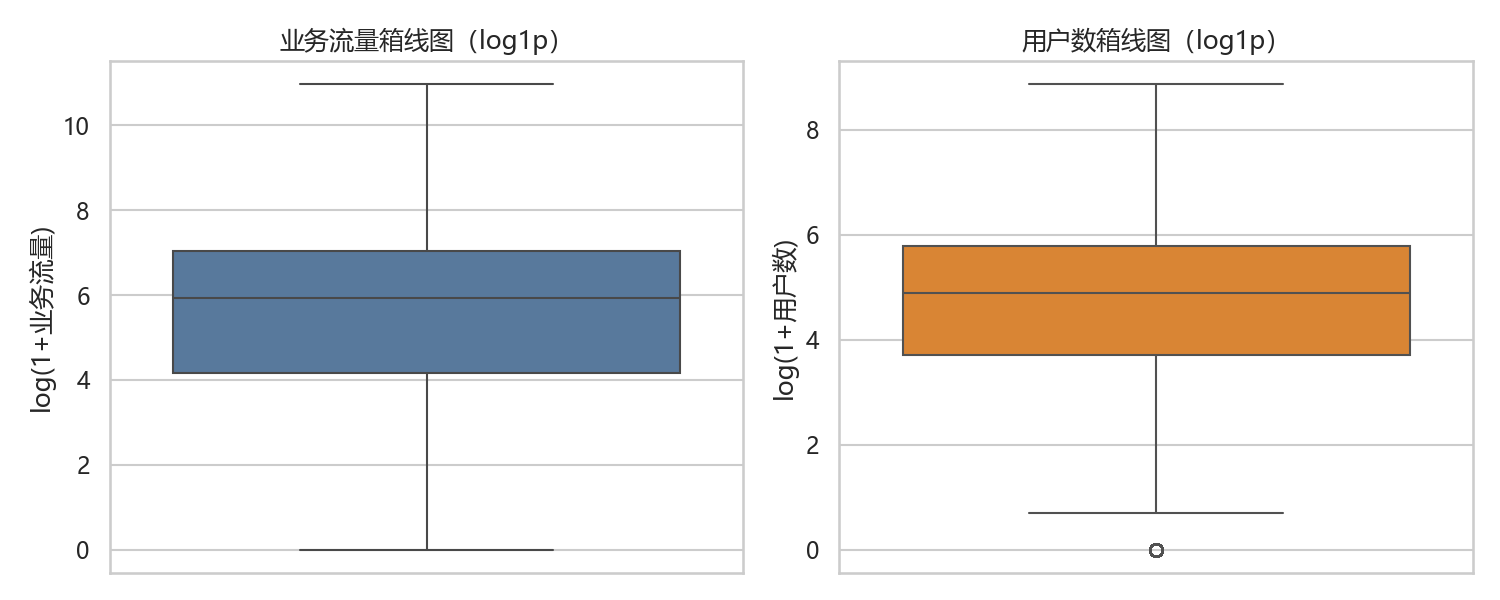
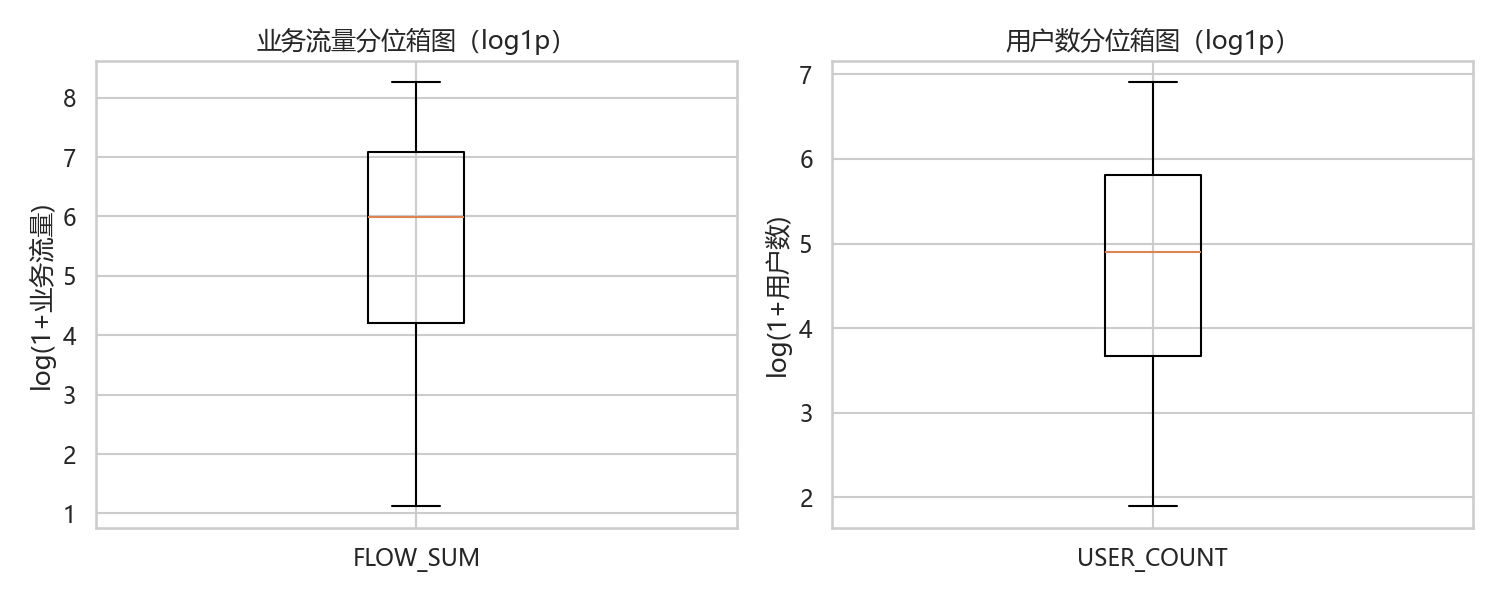
feat(section3, section5, section7): 全量数据重构

Changed region(s): [[0.0, 0.09, 1.0, 0.96], [0.6747, 0.03, 0.8587, 0.09], [0.1533, 0.03, 0.368, 0.09]]

diff --git a/section3_descriptive.py b/section3_descriptive.py
@@ -14,8 +14,13 @@ import seaborn as sns
 DATA_PATH = Path("all_final_data_with_attributes.csv")
 OUT_DIR = Path("report_assets/section3")
 CHUNK_SIZE = 1_000_000
-MAX_SAMPLE = 120_000
-MAX_GEO_SAMPLE = 50_000
+HIST_BINS = 60
+SCATTER_BINS = 80
+FLOW_LOG_MAX = 14.0
+USER_LOG_MAX = 10.0
+FPU_LOG_MAX = 9.0
+PAR_LOG_MAX = 5.5
+ACTIVITY_MAX = 0.6
 
 COL_DATE = "\u65e5\u671f"
 COL_HOUR = "\u5c0f\u65f6"
@@ -128,21 +133,23 @@ def combine_cell_agg(
     return base
 
 
-def append_sample(
-    sample_df: pd.DataFrame | None,
-    new_sample: pd.DataFrame,
-    max_size: int,
-    seed: int,
-) -> pd.DataFrame:
-    if new_sample.empty:
-        return sample_df if sample_df is not None else pd.DataFrame()
-    if sample_df is None:
-        sample_df = new_sample.copy()
-    else:
-        sample_df = pd.concat([sample_df, new_sample], ignore_index=True)
-    if len(sample_df) > max_size:
-        sample_df = sample_df.sample(max_size, random_state=seed)
-    return sample_df
+def hist_quantile(edges: np.ndarray, counts: np.ndarray, q: float) -> float:
+    total = counts.sum()
+    if total == 0:
+        return np.nan
+    target = q * total
+    cumulative = np.cumsum(counts)
+    idx = int(np.searchsorted(cumulative, target))
+    if idx <= 0:
+        return float(edges[0])
+    if idx >= len(counts):
+        return float(edges[-1])
+    prev = cumulative[idx - 1]
+    count = counts[idx]
+    if count == 0:
+        return float(edges[idx])
+    frac = (target - prev) / count
+    return float(edges[idx] + frac * (edges[idx + 1] - edges[idx]))
 
 
 def weekday_labels(values: list[int]) -> list[str]:
@@ -207,8 +214,21 @@ def main() -> None:
     type_agg: pd.DataFrame | None = None
     cell_agg: pd.DataFrame | None = None
     cell_attrs: pd.DataFrame | None = None
-    sample_df: pd.DataFrame | None = None
-    geo_sample_df: pd.DataFrame | None = None
+
+    flow_bins = np.linspace(0, FLOW_LOG_MAX, HIST_BINS + 1)
+    user_bins = np.linspace(0, USER_LOG_MAX, HIST_BINS + 1)
+    fpu_bins = np.linspace(0, FPU_LOG_MAX, HIST_BINS + 1)
+    par_bins = np.linspace(0, PAR_LOG_MAX, HIST_BINS + 1)
+    activity_bins = np.linspace(0, ACTIVITY_MAX, HIST_BINS + 1)
+    scatter_x_bins = np.linspace(0, USER_LOG_MAX, SCATTER_BINS + 1)
+    scatter_y_bins = np.linspace(0, FLOW_LOG_MAX, SCATTER_BINS + 1)
+
+    flow_hist = np.zeros(HIST_BINS, dtype=np.int64)
+    user_hist = np.zeros(HIST_BINS, dtype=np.int64)
+    fpu_hist = np.zeros(HIST_BINS, dtype=np.int64)
+    par_hist = np.zeros(HIST_BINS, dtype=np.int64)
+    activity_hist = np.zeros(HIST_BINS, dtype=np.int64)
+    scatter_counts = np.zeros((SCATTER_BINS, SCATTER_BINS), dtype=np.int64)
 
     for idx, chunk in enumerate(
         pd.read_csv(
@@ -241,17 +261,28 @@ def main() -> None:
         update_stats(chunk["PAR"], par_stats)
         update_stats(chunk["ActivityScore"], activity_stats)
 
-        sample_cols = ["FLOW_SUM", "USER_COUNT", "flow_per_user", "PAR", "ActivityScore"]
-        sample = chunk[sample_cols].dropna(how="all")
-        if not sample.empty:
-            sample = sample.sample(n=min(5000, len(sample)), random_state=42 + idx)
-            sample_df = append_sample(sample_df, sample, MAX_SAMPLE, seed=100 + idx)
+        flow_log = np.log1p(chunk["FLOW_SUM"].to_numpy())
+        user_log = np.log1p(chunk["USER_COUNT"].to_numpy())
+        fpu_log = np.log1p(chunk["flow_per_user"].to_numpy())
+        par_log = np.log1p(chunk["PAR"].to_numpy())
+        activity_vals = chunk["ActivityScore"].to_numpy()
 
-        geo_cols = ["LONGITUDE", "LATITUDE", "FLOW_SUM", "SCENE", "flow_per_user"]
-        geo = chunk[geo_cols].dropna(how="any")
-        if not geo.empty:
-            geo = geo.sample(n=min(3000, len(geo)), random_state=7 + idx)
-            geo_sample_df = append_sample(geo_sample_df, geo, MAX_GEO_SAMPLE, seed=200 + idx)
+        flow_hist += np.histogram(flow_log[np.isfinite(flow_log)], bins=flow_bins)[0]
+        user_hist += np.histogram(user_log[np.isfinite(user_log)], bins=user_bins)[0]
+        fpu_hist += np.histogram(fpu_log[np.isfinite(fpu_log)], bins=fpu_bins)[0]
+        par_hist += np.histogram(par_log[np.isfinite(par_log)], bins=par_bins)[0]
+        activity_hist += np.histogram(
+            activity_vals[np.isfinite(activity_vals)], bins=activity_bins
+        )[0]
+
+        valid_mask = np.isfinite(flow_log) & np.isfinite(user_log)
+        if valid_mask.any():
+            hist2d, _, _ = np.histogram2d(
+                user_log[valid_mask],
+                flow_log[valid_mask],
+                bins=[scatter_x_bins, scatter_y_bins],
+            )
+            scatter_counts += hist2d.astype(np.int64)
 
         daily = (
             chunk.groupby(COL_DATE, as_index=False)[["FLOW_SUM", "USER_COUNT"]]
@@ -367,11 +398,6 @@ def main() -> None:
                 subset=["CELL_ID"], keep="first"
             )
 
-    if sample_df is None:
-        sample_df = pd.DataFrame()
-    if geo_sample_df is None:
-        geo_sample_df = pd.DataFrame()
-
     daily_agg = daily_agg.reset_index().rename(columns={COL_DATE: "date"})
     daily_agg["date"] = pd.to_datetime(daily_agg["date"], errors="coerce")
     daily_agg = daily_agg.sort_values("date")
@@ -416,69 +442,89 @@ def main() -> None:
         plt.savefig(OUT_DIR / name, dpi=150)
         plt.close()
 
-    if not sample_df.empty:
-        fig, axes = plt.subplots(1, 2, figsize=(12, 4))
-        sns.histplot(np.log1p(sample_df["FLOW_SUM"].dropna()), bins=60, ax=axes[0])
-        axes[0].set_title("\u4e1a\u52a1\u6d41\u91cf\u5206\u5e03\uff08log1p\uff09")
-        axes[0].set_xlabel("log(1+\u4e1a\u52a1\u6d41\u91cf)")
-        axes[0].set_ylabel("\u6837\u672c\u6570\u91cf")
-        sns.histplot(np.log1p(sample_df["USER_COUNT"].dropna()), bins=60, ax=axes[1])
-        axes[1].set_title("\u7528\u6237\u6570\u5206\u5e03\uff08log1p\uff09")
-        axes[1].set_xlabel("log(1+\u7528\u6237\u6570)")
-        axes[1].set_ylabel("\u6837\u672c\u6570\u91cf")
-        save_fig("fig01_flow_user_hist.png")
+    fig, axes = plt.subplots(1, 2, figsize=(12, 4))
+    flow_centers = (flow_bins[:-1] + flow_bins[1:]) / 2
+    user_centers = (user_bins[:-1] + user_bins[1:]) / 2
+    axes[0].bar(flow_centers, flow_hist, width=np.diff(flow_bins), color="#4C78A8")
+    axes[0].set_title("\u4e1a\u52a1\u6d41\u91cf\u5206\u5e03\uff08log1p\uff09")
+    axes[0].set_xlabel("log(1+\u4e1a\u52a1\u6d41\u91cf)")
+    axes[0].set_ylabel("\u6837\u672c\u6570\u91cf")
+    axes[1].bar(user_centers, user_hist, width=np.diff(user_bins), color="#F58518")
+    axes[1].set_title("\u7528\u6237\u6570\u5206\u5e03\uff08log1p\uff09")
+    axes[1].set_xlabel("log(1+\u7528\u6237\u6570)")
+    axes[1].set_ylabel("\u6837\u672c\u6570\u91cf")
+    save_fig("fig01_flow_user_hist.png")
 
-        fig, axes = plt.subplots(1, 2, figsize=(10, 4))
-        sns.boxplot(
-            y=np.log1p(sample_df["FLOW_SUM"].dropna()),
-            ax=axes[0],
-            color="#4C78A8",
-        )
-        axes[0].set_title("\u4e1a\u52a1\u6d41\u91cf\u7bb1\u7ebf\u56fe\uff08log1p\uff09")
-        axes[0].set_ylabel("log(1+\u4e1a\u52a1\u6d41\u91cf)")
-        sns.boxplot(
-            y=np.log1p(sample_df["USER_COUNT"].dropna()),
-            ax=axes[1],
-            color="#F58518",
-        )
-        axes[1].set_title("\u7528\u6237\u6570\u7bb1\u7ebf\u56fe\uff08log1p\uff09")
-        axes[1].set_ylabel("log(1+\u7528\u6237\u6570)")
-        save_fig("fig02_flow_user_box.png")
+    flow_box = {
+        "med": hist_quantile(flow_bins, flow_hist, 0.5),
+        "q1": hist_quantile(flow_bins, flow_hist, 0.25),
+        "q3": hist_quantile(flow_bins, flow_hist, 0.75),
+        "whislo": hist_quantile(flow_bins, flow_hist, 0.05),
+        "whishi": hist_quantile(flow_bins, flow_hist, 0.95),
+        "fliers": [],
+    }
+    user_box = {
+        "med": hist_quantile(user_bins, user_hist, 0.5),
+        "q1": hist_quantile(user_bins, user_hist, 0.25),
+        "q3": hist_quantile(user_bins, user_hist, 0.75),
+        "whislo": hist_quantile(user_bins, user_hist, 0.05),
+        "whishi": hist_quantile(user_bins, user_hist, 0.95),
+        "fliers": [],
+    }
+    fig, axes = plt.subplots(1, 2, figsize=(10, 4))
+    axes[0].bxp([flow_box], showfliers=False)
+    axes[0].set_title("\u4e1a\u52a1\u6d41\u91cf\u5206\u4f4d\u7bb1\u56fe\uff08log1p\uff09")
+    axes[0].set_ylabel("log(1+\u4e1a\u52a1\u6d41\u91cf)")
+    axes[0].set_xticklabels(["FLOW_SUM"])
+    axes[1].bxp([user_box], showfliers=False)
+    axes[1].set_title("\u7528\u6237\u6570\u5206\u4f4d\u7bb1\u56fe\uff08log1p\uff09")
+    axes[1].set_ylabel("log(1+\u7528\u6237\u6570)")
+    axes[1].set_xticklabels(["USER_COUNT"])
+    save_fig("fig02_flow_user_box.png")
 
-        plt.figure(figsize=(6, 5))
-        plt.scatter(
-            sample_df["USER_COUNT"],
-            sample_df["FLOW_SUM"],
-            s=6,
-            alpha=0.3,
-        )
-        plt.xscale("log")
-        plt.yscale("log")
-        plt.title("\u4e1a\u52a1\u6d41\u91cf-\u7528\u6237\u6570\u6563\u70b9\uff08log-log\uff09")
-        plt.xlabel("\u7528\u6237\u6570")
-        plt.ylabel("\u4e1a\u52a1\u6d41\u91cf\uff08MB\uff09")
-        save_fig("fig03_flow_user_scatter.png")
+    plt.figure(figsize=(6, 5))
+    density = np.log1p(scatter_counts.T)
+    plt.imshow(
+        density,
+        origin="lower",
+        aspect="auto",
+        extent=[
+            scatter_x_bins[0],
+            scatter_x_bins[-1],
+            scatter_y_bins[0],
+            scatter_y_bins[-1],
+        ],
+        cmap="magma",
+    )
+    plt.colorbar(label="log(1+\u8ba1\u6570)")
+    plt.title("\u4e1a\u52a1\u6d41\u91cf-\u7528\u6237\u6570\u5bc6\u5ea6\uff08log1p\uff09")
+    plt.xlabel("log(1+\u7528\u6237\u6570)")
+    plt.ylabel("log(1+\u4e1a\u52a1\u6d41\u91cf)")
+    save_fig("fig03_flow_user_scatter.png")
 
-        plt.figure(figsize=(8, 4))
-        sns.histplot(sample_df["flow_per_user"].dropna(), bins=60, color="#72B7B2")
-        plt.title("\u4eba\u5747\u6d41\u91cf\u5206\u5e03")
-        plt.xlabel("\u4eba\u5747\u6d41\u91cf\uff08MB/\u4eba\uff09")
-        plt.ylabel("\u6837\u672c\u6570\u91cf")
-        save_fig("fig24_flow_per_user_hist.png")
+    plt.figure(figsize=(8, 4))
+    fpu_centers = (fpu_bins[:-1] + fpu_bins[1:]) / 2
+    plt.bar(fpu_centers, fpu_hist, width=np.diff(fpu_bins), color="#72B7B2")
+    plt.title("\u4eba\u5747\u6d41\u91cf\u5206\u5e03\uff08log1p\uff09")
+    plt.xlabel("log(1+\u4eba\u5747\u6d41\u91cf)")
+    plt.ylabel("\u6837\u672c\u6570\u91cf")
+    save_fig("fig24_flow_per_user_hist.png")
 
-        plt.figure(figsize=(8, 4))
-        sns.histplot(sample_df["PAR"].dropna(), bins=60, color="#E45756")
-        plt.title("PAR \u5206\u5e03")
-        plt.xlabel("PAR")
-        plt.ylabel("\u6837\u672c\u6570\u91cf")
-        save_fig("fig22_par_hist.png")
+    plt.figure(figsize=(8, 4))
+    par_centers = (par_bins[:-1] + par_bins[1:]) / 2
+    plt.bar(par_centers, par_hist, width=np.diff(par_bins), color="#E45756")
+    plt.title("PAR \u5206\u5e03\uff08log1p\uff09")
+    plt.xlabel("log(1+PAR)")
+    plt.ylabel("\u6837\u672c\u6570\u91cf")
+    save_fig("fig22_par_hist.png")
 
-        plt.figure(figsize=(8, 4))
-        sns.histplot(sample_df["ActivityScore"].dropna(), bins=60, color="#54A24B")
-        plt.title("\u6d3b\u8dc3\u5ea6\u8bc4\u5206\u5206\u5e03")
-        plt.xlabel("ActivityScore")
-        plt.ylabel("\u6837\u672c\u6570\u91cf")
-        save_fig("fig21_activityscore_hist.png")
+    plt.figure(figsize=(8, 4))
+    activity_centers = (activity_bins[:-1] + activity_bins[1:]) / 2
+    plt.bar(activity_centers, activity_hist, width=np.diff(activity_bins), color="#54A24B")
+    plt.title("\u6d3b\u8dc3\u5ea6\u8bc4\u5206\u5206\u5e03")
+    plt.xlabel("ActivityScore")
+    plt.ylabel("\u6837\u672c\u6570\u91cf")
+    save_fig("fig21_activityscore_hist.png")
 
     plt.figure(figsize=(10, 4))
     plt.plot(daily_agg["date"], daily_agg["flow_sum"])
@@ -687,14 +733,15 @@ def main() -> None:
         plt.ylabel("\u9ad8\u8d1f\u8377\u5c0f\u533a\u6570\u91cf")
         save_fig("fig21_highload_scene.png")
 
-    if not geo_sample_df.empty:
+    geo_df = cell_agg.dropna(subset=["LONGITUDE", "LATITUDE", "flow_per_user"])
+    if not geo_df.empty:
         plt.figure(figsize=(6, 6))
-        sizes = np.log1p(geo_sample_df["FLOW_SUM"].clip(lower=0)) * 8
+        sizes = np.log1p(geo_df["flow_sum"].clip(lower=0)) * 4
         plt.scatter(
-            geo_sample_df["LONGITUDE"],
-            geo_sample_df["LATITUDE"],
+            geo_df["LONGITUDE"],
+            geo_df["LATITUDE"],
             s=sizes,
-            c=geo_sample_df["flow_per_user"],
+            c=geo_df["flow_per_user"],
             cmap="viridis",
             alpha=0.4,
         )

diff --git a/section5_advanced.py b/section5_advanced.py
@@ -20,7 +20,7 @@ CELL_AGG_PATH = Path("report_assets/section3/section3_cell_agg.csv")
 OUT_DIR = Path("report_assets/section5")
 
 CHUNK_SIZE = 1_000_000
-TOP_CELL_COUNT = 2000
+TOP_CELL_COUNT = None
 TEST_DAYS = 7
 
 
@@ -90,8 +90,11 @@ def main() -> None:
 
     cell_agg = pd.read_csv(CELL_AGG_PATH)
     cell_agg["CELL_ID"] = cell_agg["CELL_ID"].astype(int)
-    cell_agg = cell_agg.sort_values("flow_sum", ascending=False)
-    top_cells = cell_agg.head(TOP_CELL_COUNT)["CELL_ID"].tolist()
+    cell_agg_sorted = cell_agg.sort_values("flow_sum", ascending=False)
+    if TOP_CELL_COUNT:
+        top_cells = cell_agg_sorted.head(TOP_CELL_COUNT)["CELL_ID"].tolist()
+    else:
+        top_cells = cell_agg_sorted["CELL_ID"].tolist()
     target_cell = int(top_cells[0])
     top_set = set(top_cells)
     cell_index = {cell_id: idx for idx, cell_id in enumerate(top_cells)}
